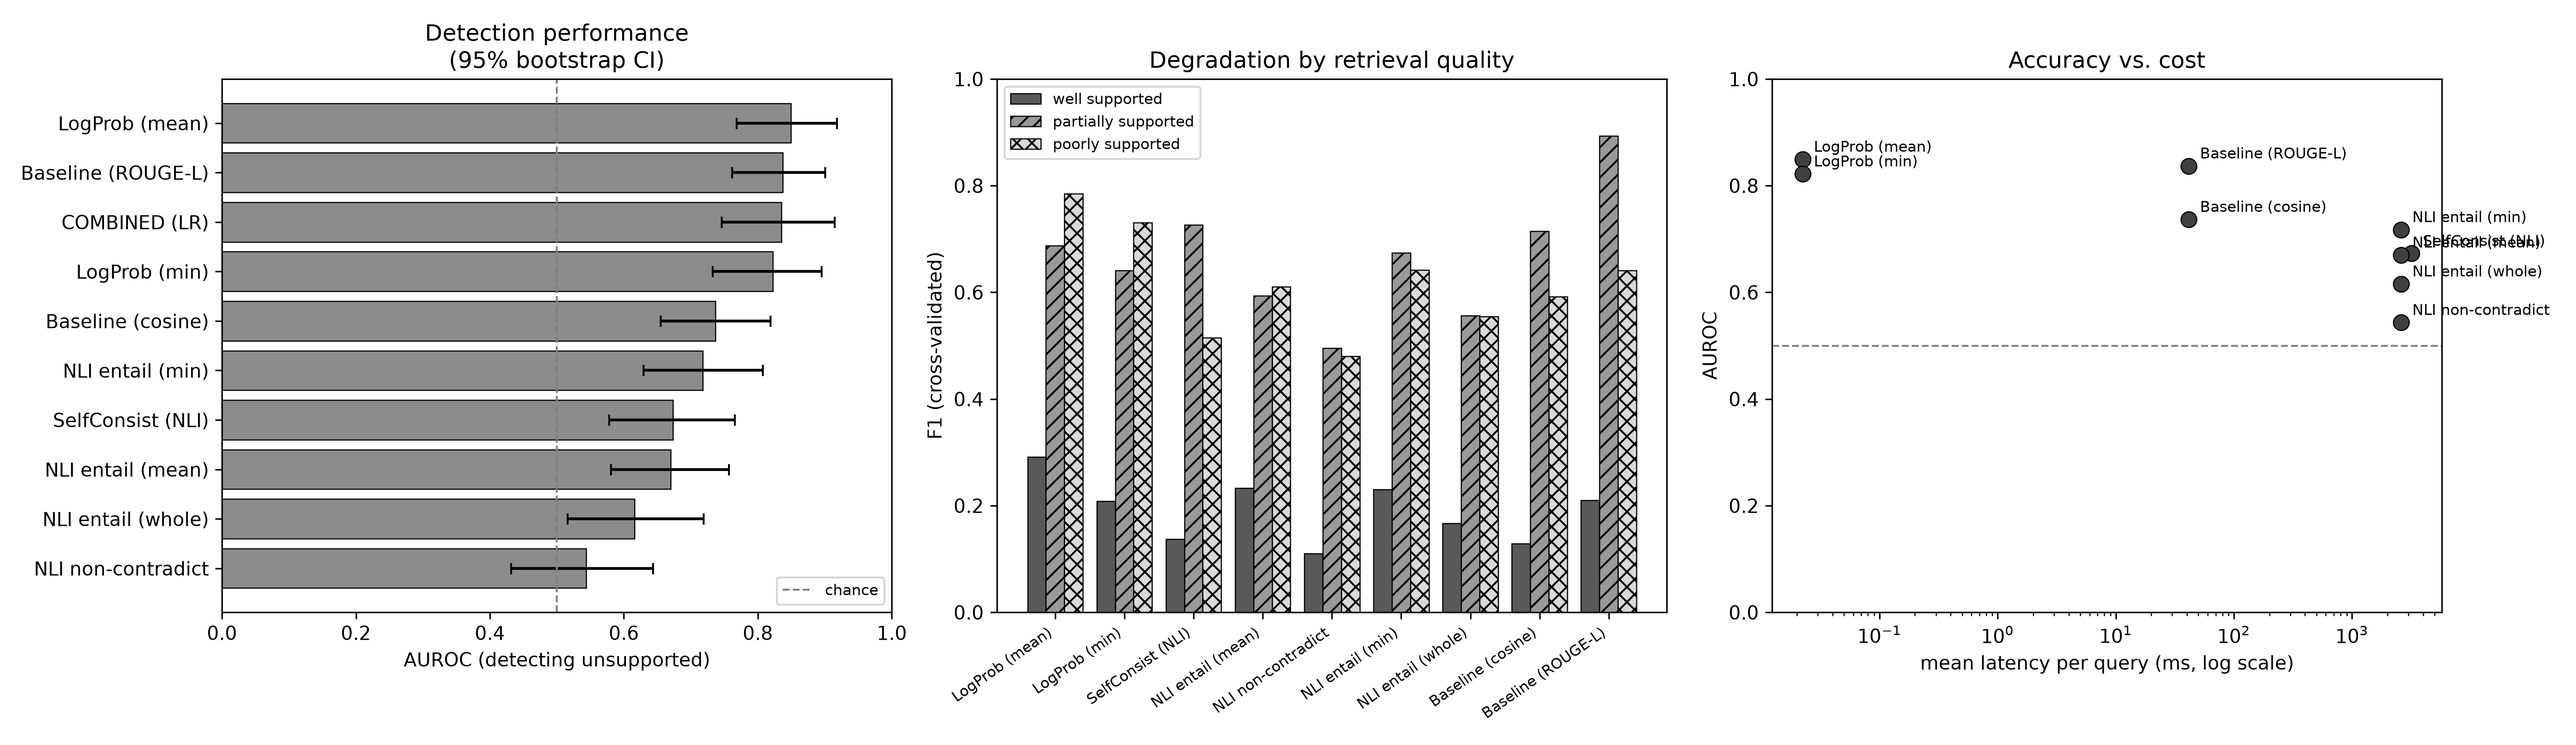
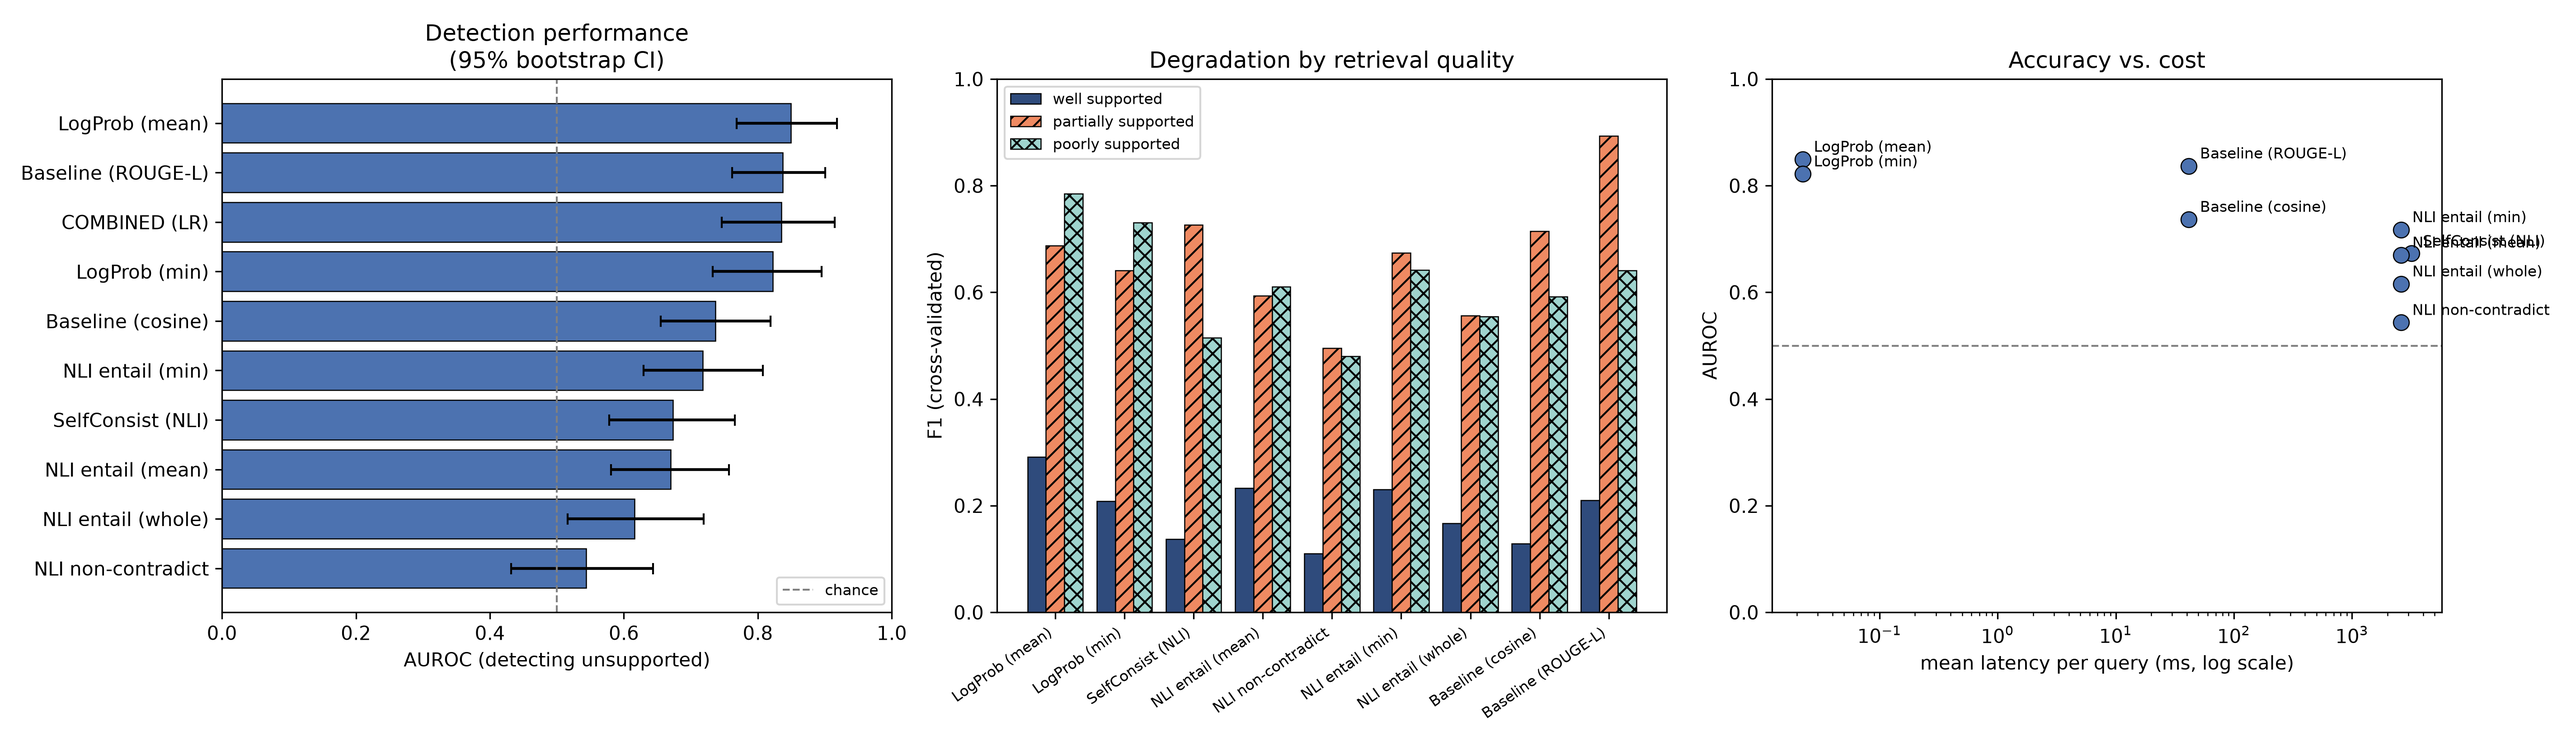
Restore colour to the figure; keep it greyscale-safe by redundant encoding
I over-corrected. The requirement is that figures be "legible in greyscale at
print size", which means the series must be separable without hue - not that the
figure must be colourless. Stripping the colour cost on-screen readability for
no benefit.

The per-condition panel now carries three channels at once: colour, hatching
(none, ///, xxx), and luminance. Measured on the rendered PNG, the three fills
convert to greyscale values 72, 164 and 195, a spread of 123 levels, so they
remain distinguishable in print before the hatching is even considered. The
AUROC panel and the accuracy-vs-cost scatter are back to colour as well; every
scatter point carries its own text label, so identity there never depended on
hue.

Still 5700x1650 at 300 dpi, 0.5 MB.

diff --git a/evaluate.py b/evaluate.py
@@ -361,7 +361,7 @@ def make_plots(overall, per_condition, out_path: Path) -> None:
         [n for n, k in zip(names, ok) if k],
         [v for v, k in zip(vals, ok) if k],
         xerr=[[e for e, k in zip(errs[0], ok) if k], [e for e, k in zip(errs[1], ok) if k]],
-        color="0.55", edgecolor="black", linewidth=0.6, capsize=3,
+        color="#4C72B0", edgecolor="black", linewidth=0.6, capsize=3,
     )
     ax.axvline(0.5, color="grey", ls="--", lw=1, label="chance")
     ax.set_xlim(0, 1)
@@ -377,16 +377,18 @@ def make_plots(overall, per_condition, out_path: Path) -> None:
         sig_names = list(dict.fromkeys(n for c in conds for n, _ in per_condition[c]))
         width = 0.8 / max(1, len(conds))
         x = np.arange(len(sig_names))
-        # Hatching, not colour alone: the venue requires figures to stay legible
-        # in greyscale at print size, and three series separated only by hue are
-        # indistinguishable once printed.
+        # Colour AND hatching AND luminance. The venue requires figures to stay
+        # legible in greyscale at print size, which means the series must be
+        # separable without hue, not that the figure must be colourless. These
+        # three fills also differ in lightness, so they survive a greyscale
+        # conversion even before the hatching is taken into account.
+        colours = ["#2F4B7C", "#EF8A62", "#9FD4CE"]   # dark / mid / light
         hatches = ["", "///", "xxx"]
-        greys = ["0.35", "0.60", "0.85"]
         for i, c in enumerate(conds):
             lookup = dict(per_condition[c])
             ys = [lookup[n]["f1"] if n in lookup else np.nan for n in sig_names]
             ax.bar(x + i * width, ys, width, label=c.replace("_", " "),
-                   color=greys[i % len(greys)], hatch=hatches[i % len(hatches)],
+                   color=colours[i % len(colours)], hatch=hatches[i % len(hatches)],
                    edgecolor="black", linewidth=0.6)
         ax.set_xticks(x + width * (len(conds) - 1) / 2)
         ax.set_xticklabels(sig_names, rotation=35, ha="right", fontsize=8)
@@ -400,10 +402,10 @@ def make_plots(overall, per_condition, out_path: Path) -> None:
     for n, m in overall:
         if m["auroc"] != m["auroc"] or m["latency_ms"] != m["latency_ms"]:
             continue
-        # Every point carries its own text label, so a single greyscale marker
-        # stays readable in print; colour would add nothing here.
+        # Every point carries its own text label, so identity never depends on
+        # colour; the dark fill and black edge keep it legible in print too.
         ax.scatter(max(m["latency_ms"], 1e-3), m["auroc"], s=70,
-                   color="0.25", edgecolor="black", linewidth=0.6, zorder=3)
+                   color="#4C72B0", edgecolor="black", linewidth=0.6, zorder=3)
         ax.annotate(
             n, (max(m["latency_ms"], 1e-3), m["auroc"]),
             textcoords="offset points", xytext=(6, 4), fontsize=8,
